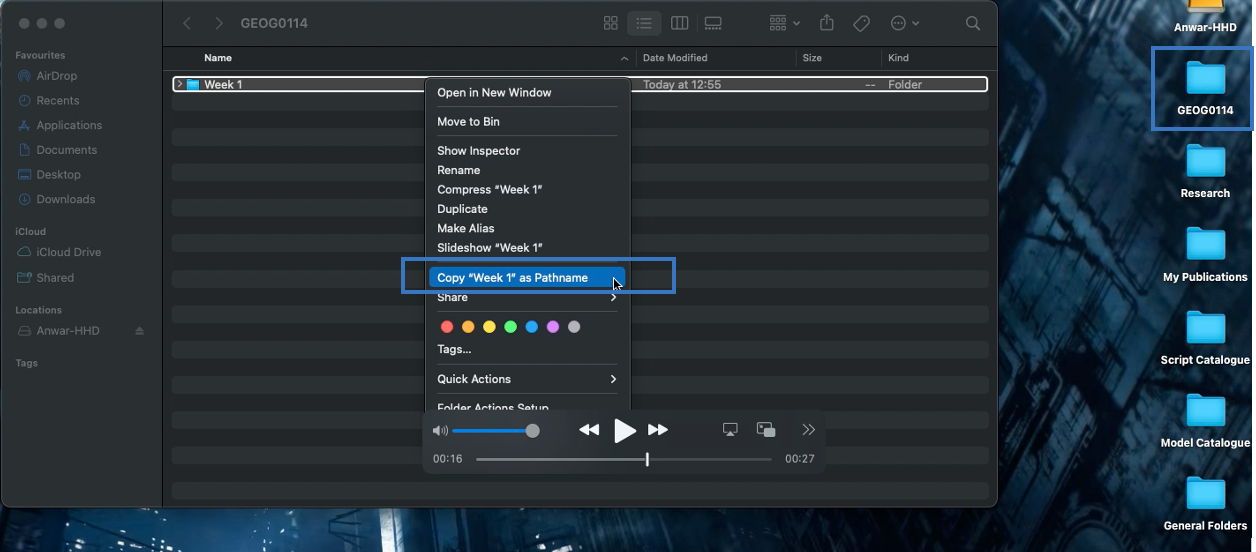
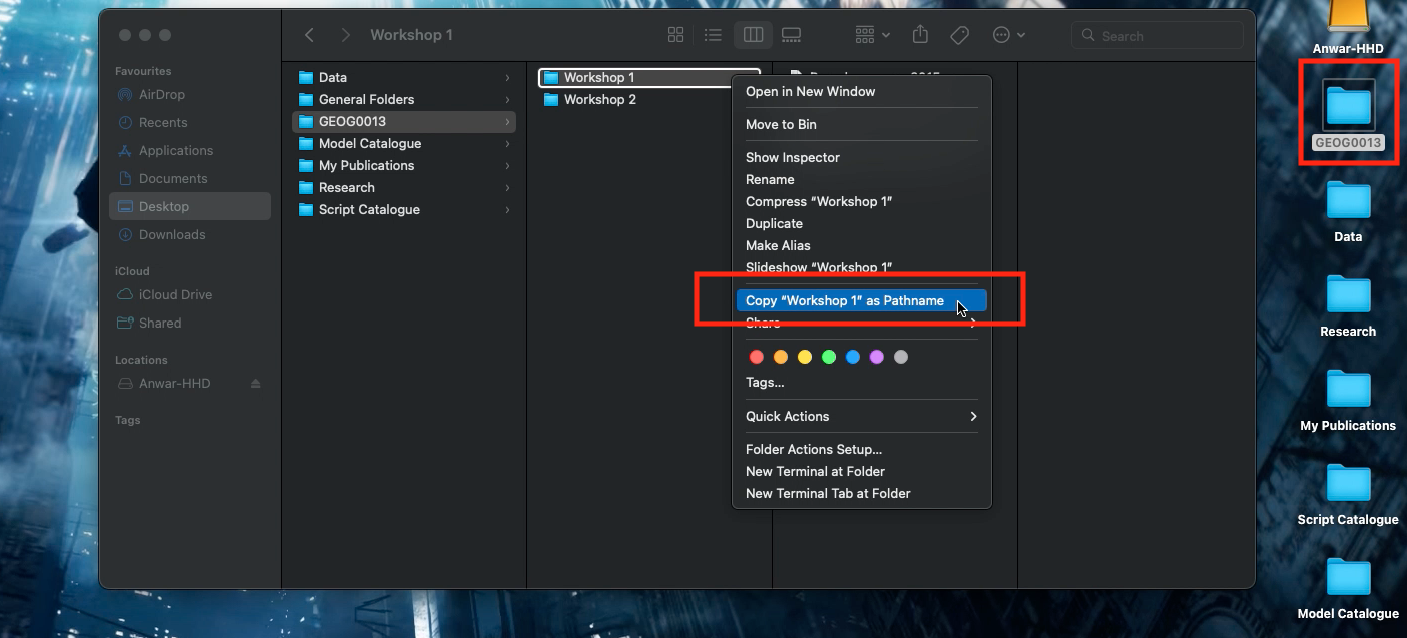
Uploading doc: Introduction to Statistics GIF1

diff --git a/docs/part-2-basics-of-managing-data-in-rstudio.html b/docs/part-2-basics-of-managing-data-in-rstudio.html
@@ -305,14 +305,14 @@ code span.wa { color: #60a0b0; font-weight: bold; font-style: italic; } /* Warni
 </div>
 <p>Now, this part of the practicals are probably the most important section of this tutorial. It’s usually the <strong>“make”</strong> or <strong>“break”</strong> phase (i.e., you ending up loving RStudio OR you hating it and not ever wanting to pick up R again).</p>
 <p>We are going to learn how to set-up a working directory. This basically refers to us connecting the RStudio to the folder containing our dataset. It allows the user to tell RStudio to open data from a folder once it knows the <strong>path location</strong>. The path location specifies the whereabouts of the data file(s) stored within a computer. Setting your directory in RStudio beforehand makes life incredibly easier in terms of finding, importing, exporting and saving data in and out of RStudio.</p>
-<p>To illustrate what a path location is – suppose on my desktop (mac/widows) there is a folder called <strong>“GEOG0013”</strong>, and within that folder, exists another folder called <strong>“Workshop 1”</strong>. Finally, suppose a comma separated value (.csv) data file called <strong>“XXX.csv”</strong> is store in this last folder i.e., <strong>Workshop 1</strong>. If via RStudio you want to open this CSV data file located in within the <strong>“Workshop 1”</strong> folder. You will need to first set the path to <strong>“Workshop 1”</strong> in RStudio using the <code>setwd()</code> function.</p>
+<p>To illustrate what a path location is – suppose on my desktop (mac/widows) there is a folder called <strong>“GEOG0013”</strong>, and within that folder, exists another folder called <strong>“Workshop 1”</strong>. Finally, suppose a comma separated value (.csv) data file called <strong>“Barcelona_rents_2015.csv”</strong> is store in this last folder i.e., <strong>Workshop 1</strong>. If via RStudio you want to open this CSV data file located in within the <strong>“Workshop 1”</strong> folder. You will need to first set the path to <strong>“Workshop 1”</strong> in RStudio using the <code>setwd()</code> function.</p>
 <p>Therefore, the path location to this folder on a <strong>Windows</strong> machine would be written as follows, <code>"C:/Users/accountName/Desktop/GEOG0013/Workshop 1"</code>. You can access this piece of information simply by:</p>
 <ol style="list-style-type: decimal">
 <li>Open the <strong>GEOG0013</strong> folder to reveal the <strong>Workshop 1</strong> folder.</li>
 <li>Open the <strong>Workshop 1</strong> folder in the data files are stored.</li>
 <li>Now, click on the bar at the top which shows <code>GEOG0013 &gt; Workshop 1</code>. This should highlight and show <code>"C:\Users\accountName\Desktop\GEOG0013\Workshop 1"</code> (see image below):</li>
 </ol>
-<p><img src="images/general/getting_started/image3_path_window.png" width="100%" style="display: block; margin: auto;" /></p>
+<p><img src="images/general/getting_started/image3_path_windows.PNG" width="100%" style="display: block; margin: auto;" /></p>
 <ol start="4" style="list-style-type: decimal">
 <li>Now, copy <code>"C:\Users\accountName\Desktop\GEOG0013\Workshop 1"</code> and paste the path name into the <code>setwd()</code> function in your R script.</li>
 <li>Lastly, change all the back slashes <code>\</code> in the path name to forward slashes <code>/</code> and run the code. It should look like this: <code>setwd("C:/Users/accountName/Desktop/GEOG0013/Workshop 1")</code>.</li>
@@ -339,48 +339,47 @@ code span.wa { color: #60a0b0; font-weight: bold; font-style: italic; } /* Warni
 <h2>Importing data using <code>read.csv()</code><a href="part-2-basics-of-managing-data-in-rstudio.html#importing-data-using-read.csv" class="anchor-section" aria-label="Anchor link to header"></a></h2>
 <p>As you will be working mostly with comma separated value formatted data (i.e., csv) we will therefore learn how to import and export in RStudio. There are two files that we are going to import into RStudio from Week 1’s folder:</p>
 <ol style="list-style-type: decimal">
-<li><code>XXX.csv</code> which contains information on seven indicators (as scores) and an IMD ranking for socioeconomic deprivation for 4,836 postcodes across London in 2019.</li>
-<li><code>YYY.csv</code> which contains details about the observed and estimated expected number of fire-related accidents to have occurred in residential premises with the overall number of houses in 4,836 postcodes across London in 2019.</li>
+<li><code>Barcelona_cars_2015.csv</code> which contains an indicator for proportion of car ownership in 73 Spanish neighbourhoods in Barcelona in 2015.</li>
+<li><code>Barcelona_rents_2015.csv</code> which contains an indicator for average monthly rent (in euros) spent in 73 Spanish neighbourhoods in Barcelona in 2015.</li>
 </ol>
-<p>To import a csv into RStudio, we use the <code>read.csv()</code> function. To demonstrate this, let us import the data for fires into an data frame object and name it as <code>X_OBJECT</code></p>
+<p>To import a csv into RStudio, we use the <code>read.csv()</code> function. To demonstrate this, let us import the data for fires into an data frame object and name it as <code>Barcelona_rents_2015.csv</code></p>
 <div class="sourceCode" id="cb14"><pre class="sourceCode r"><code class="sourceCode r"><span id="cb14-1"><a href="part-2-basics-of-managing-data-in-rstudio.html#cb14-1" aria-hidden="true" tabindex="-1"></a><span class="co"># Import data using read.csv() function </span></span>
-<span id="cb14-2"><a href="part-2-basics-of-managing-data-in-rstudio.html#cb14-2" aria-hidden="true" tabindex="-1"></a>Fire_data <span class="ot">&lt;-</span> <span class="fu">read.csv</span>(<span class="at">file=</span><span class="st">&quot;XXX.csv&quot;</span>, <span class="at">header =</span> <span class="cn">TRUE</span>, <span class="at">sep =</span> <span class="st">&quot;,&quot;</span>)</span></code></pre></div>
+<span id="cb14-2"><a href="part-2-basics-of-managing-data-in-rstudio.html#cb14-2" aria-hidden="true" tabindex="-1"></a>Rent_data <span class="ot">&lt;-</span> <span class="fu">read.csv</span>(<span class="at">file=</span><span class="st">&quot;Barcelona_rents_2015.csv&quot;</span>, <span class="at">header =</span> <span class="cn">TRUE</span>, <span class="at">sep =</span> <span class="st">&quot;,&quot;</span>)</span></code></pre></div>
 <p>Just in case…suppose if we did <strong>NOT</strong> set the working directory earlier. We would have to go through the hassle of typing the path location in the <code>read.csv()</code>.</p>
 <p>For windows:</p>
-<div class="sourceCode" id="cb15"><pre class="sourceCode r"><code class="sourceCode r"><span id="cb15-1"><a href="part-2-basics-of-managing-data-in-rstudio.html#cb15-1" aria-hidden="true" tabindex="-1"></a>X_OBJECT <span class="ot">&lt;-</span> <span class="fu">read.csv</span>(<span class="at">file=</span><span class="st">&quot;C:/Users/accountName/Desktop/GEOG0013/Workshop 1/XXX.csv&quot;</span>, <span class="at">header =</span> <span class="cn">TRUE</span>, <span class="at">sep =</span> <span class="st">&quot;,&quot;</span>)</span></code></pre></div>
+<div class="sourceCode" id="cb15"><pre class="sourceCode r"><code class="sourceCode r"><span id="cb15-1"><a href="part-2-basics-of-managing-data-in-rstudio.html#cb15-1" aria-hidden="true" tabindex="-1"></a>Rent_data <span class="ot">&lt;-</span> <span class="fu">read.csv</span>(<span class="at">file=</span><span class="st">&quot;C:/Users/accountName/Desktop/GEOG0013/Workshop 1/Barcelona_rent_2015.csv&quot;</span>, <span class="at">header =</span> <span class="cn">TRUE</span>, <span class="at">sep =</span> <span class="st">&quot;,&quot;</span>)</span></code></pre></div>
 <p>For Mac:</p>
-<div class="sourceCode" id="cb16"><pre class="sourceCode r"><code class="sourceCode r"><span id="cb16-1"><a href="part-2-basics-of-managing-data-in-rstudio.html#cb16-1" aria-hidden="true" tabindex="-1"></a>X_OBJECT <span class="ot">&lt;-</span> <span class="fu">read.csv</span>(<span class="at">file=</span><span class="st">&quot;/Users/accountName/Desktop/GEOG0013/Workshop 1/XXX.csv&quot;</span>, <span class="at">header =</span> <span class="cn">TRUE</span>, <span class="at">sep =</span> <span class="st">&quot;,&quot;</span>)</span></code></pre></div>
+<div class="sourceCode" id="cb16"><pre class="sourceCode r"><code class="sourceCode r"><span id="cb16-1"><a href="part-2-basics-of-managing-data-in-rstudio.html#cb16-1" aria-hidden="true" tabindex="-1"></a>Rent_data <span class="ot">&lt;-</span> <span class="fu">read.csv</span>(<span class="at">file=</span><span class="st">&quot;/Users/accountName/Desktop/GEOG0013/Workshop 1/Barcelona_rent_2015.csv&quot;</span>, <span class="at">header =</span> <span class="cn">TRUE</span>, <span class="at">sep =</span> <span class="st">&quot;,&quot;</span>)</span></code></pre></div>
 <p>I do not recommend doing it this way. Just set the work directory with <code>setwd()</code> to make life easier for yourself.</p>
 <div class="note">
 <p><strong>Important Notes:</strong> The arguments used in <code>read.csv()</code> function – 1.) ‘<code>file =</code>’ is a mandatory option where you quote the name of the file to be imported; 2.) ‘<code>header = TRUE</code>’ option is set to <code>TRUE</code> which is telling RStudio that the file that is about to be imported has column names on the first row so it should not treat as observations; and 3.) ‘<code>sep = ","</code>’ we are telling RStudio that the format of the dataset is comma separated.</p>
 </div>
-<p>We have imported the XXX data. Now, let us import the second data for YYY using the <code>read.csv()</code> function and call it <code>Y_OBJECT</code>. The code would look something as follows:</p>
+<p>We have imported the <code>Barcelona_rents_2015.csv</code> data. Now, let us import the second data for YYY using the <code>read.csv()</code> function and call it <code>Barcelona_cars_2015.csv</code>. The code would look something as follows:</p>
 <div class="sourceCode" id="cb17"><pre class="sourceCode r"><code class="sourceCode r"><span id="cb17-1"><a href="part-2-basics-of-managing-data-in-rstudio.html#cb17-1" aria-hidden="true" tabindex="-1"></a><span class="co"># Import data using read.csv() function </span></span>
-<span id="cb17-2"><a href="part-2-basics-of-managing-data-in-rstudio.html#cb17-2" aria-hidden="true" tabindex="-1"></a>Y_OBJECT <span class="ot">&lt;-</span> <span class="fu">read.csv</span>(<span class="at">file=</span><span class="st">&quot;YYY.csv&quot;</span>, <span class="at">header =</span> <span class="cn">TRUE</span>, <span class="at">sep =</span> <span class="st">&quot;,&quot;</span>)</span>
+<span id="cb17-2"><a href="part-2-basics-of-managing-data-in-rstudio.html#cb17-2" aria-hidden="true" tabindex="-1"></a>Cars_data <span class="ot">&lt;-</span> <span class="fu">read.csv</span>(<span class="at">file=</span><span class="st">&quot;Barcelona_cars_2015.csv&quot;</span>, <span class="at">header =</span> <span class="cn">TRUE</span>, <span class="at">sep =</span> <span class="st">&quot;,&quot;</span>)</span>
 <span id="cb17-3"><a href="part-2-basics-of-managing-data-in-rstudio.html#cb17-3" aria-hidden="true" tabindex="-1"></a></span>
 <span id="cb17-4"><a href="part-2-basics-of-managing-data-in-rstudio.html#cb17-4" aria-hidden="true" tabindex="-1"></a><span class="co"># Show viewer the data sets</span></span>
-<span id="cb17-5"><a href="part-2-basics-of-managing-data-in-rstudio.html#cb17-5" aria-hidden="true" tabindex="-1"></a><span class="fu">View</span>(Y_OBJECT)</span>
-<span id="cb17-6"><a href="part-2-basics-of-managing-data-in-rstudio.html#cb17-6" aria-hidden="true" tabindex="-1"></a><span class="fu">View</span>(X_OBJECT)</span></code></pre></div>
+<span id="cb17-5"><a href="part-2-basics-of-managing-data-in-rstudio.html#cb17-5" aria-hidden="true" tabindex="-1"></a><span class="fu">View</span>(Rent_data)</span>
+<span id="cb17-6"><a href="part-2-basics-of-managing-data-in-rstudio.html#cb17-6" aria-hidden="true" tabindex="-1"></a><span class="fu">View</span>(Cars_data)</span></code></pre></div>
 </div>
 <div id="joining-two-datasets-using-the-merge-function" class="section level2 unnumbered hasAnchor">
 <h2>Joining two datasets using the <code>merge()</code> function<a href="part-2-basics-of-managing-data-in-rstudio.html#joining-two-datasets-using-the-merge-function" class="anchor-section" aria-label="Anchor link to header"></a></h2>
-<p>In your journey with data sets, you will certainly find yourself merging two or more data frames together, especially bringing together a spatial object with a non-spatial object. We cannot stress the importance of merging objects in the correct order so that the spatial attributes are preserved.</p>
-<p>In this instance, we are just dealing with two ordinary dataset which are non-spatial - i.e., one data set contains information on Fires that occurred in geographic units in London know as Lower Super Output Areas (LSOA), while the other contains its corresponding information for socioeconomic indicators that describe the LSOA. Hence, it is possible to merge the two data frames uniquely using a common key variable like <code>Key_variable</code>.</p>
+<p>In your journey with data sets, you will certainly find yourself merging two or more data frames together, especially bringing together a spatial object with a non-spatial object. We cannot stress the importance of merging objects in the correct order so that the spatial attributes are preserved. It is possible to merge the two data frames uniquely using a common key variable like <code>neighbourhoods</code> that is present in both data sets.</p>
 <p><img src="images/general/getting_started/image5_dataviewer.png" width="100%" style="display: block; margin: auto;" /></p>
 <p>This task can be done using the merge function <code>merge()</code>. Consequently, we want the format of the merge code to look something akin to this syntax <code>merge(target_object, selected_object, by=”Key_variable”)</code>.</p>
-<p>Merging data frames is indeed a very important technique to know especially if you need to bring together event information with no spatial dimension with actual spatial data. Alright, let’s merge the deprivation data on the fire records using the <code>Key_variable</code> column, and generate a bigger data frame that contains both the fire and socioeconomic information:</p>
+<p>Merging data frames is indeed a very important technique to know especially if you need to bring together event information with no spatial dimension with actual spatial data. Alright, let’s merge the rental information on the fire records using the <code>Key_variable</code> column, and generate a bigger data frame that contains both the fire and socioeconomic information:</p>
 <div class="sourceCode" id="cb18"><pre class="sourceCode r"><code class="sourceCode r"><span id="cb18-1"><a href="part-2-basics-of-managing-data-in-rstudio.html#cb18-1" aria-hidden="true" tabindex="-1"></a><span class="co"># Using the merge() function </span></span>
-<span id="cb18-2"><a href="part-2-basics-of-managing-data-in-rstudio.html#cb18-2" aria-hidden="true" tabindex="-1"></a>Barcelona_data <span class="ot">&lt;-</span> <span class="fu">merge</span>(X_OBJECT, Y_OBJECT, <span class="at">by.x =</span> “Key_variable”, <span class="at">by.y =</span> “Key_variable”, <span class="at">all.x =</span> <span class="cn">TRUE</span>)</span>
+<span id="cb18-2"><a href="part-2-basics-of-managing-data-in-rstudio.html#cb18-2" aria-hidden="true" tabindex="-1"></a>Barcelona_data <span class="ot">&lt;-</span> <span class="fu">merge</span>(Rent_data, Cars_data, <span class="at">by.x =</span> <span class="st">&quot;neighbourhood&quot;</span>, <span class="at">by.y =</span> <span class="st">&quot;neighbourhood&quot;</span>, <span class="at">all.x =</span> <span class="cn">TRUE</span>)</span>
 <span id="cb18-3"><a href="part-2-basics-of-managing-data-in-rstudio.html#cb18-3" aria-hidden="true" tabindex="-1"></a></span>
 <span id="cb18-4"><a href="part-2-basics-of-managing-data-in-rstudio.html#cb18-4" aria-hidden="true" tabindex="-1"></a><span class="co"># View the datasets</span></span>
 <span id="cb18-5"><a href="part-2-basics-of-managing-data-in-rstudio.html#cb18-5" aria-hidden="true" tabindex="-1"></a><span class="fu">View</span>(Barcelona_data)</span></code></pre></div>
 <div class="note">
 <p><strong>Important Notes:</strong> The arguments used in <code>merge.csv()</code>:</p>
 <ol style="list-style-type: decimal">
-<li><code>X_OBJECT</code> is the target data frame we want something to be merged on to.</li>
-<li><code>Y_OBJECT</code> is the selected data frame we are using to merge with the <code>X_OBJECT</code>.</li>
-<li><code>by.x = “Key_variable”</code> option we are specifying the name of the join column from the target data frame i.e., <code>X_OBJECT</code>.</li>
-<li><code>by.y = “Key_variable”</code> option we are specifying the name of the join column from the selected data frame i.e., <code>Y_OBJECT</code></li>
+<li><code>Rent_data</code> is the target data frame we want something to be merged on to.</li>
+<li><code>Cars_data</code> is the selected data frame we are using to merge with the <code>Rent_data</code>.</li>
+<li><code>by.x = “neighbourhood”</code> option we are specifying the name of the join column from the target data frame i.e., <code>Rent_data</code>.</li>
+<li><code>by.y = “neighbourhood”</code> option we are specifying the name of the join column from the selected data frame i.e., <code>Cars_data</code></li>
 <li><code>all.x=TRUE</code> option we are telling RStudio to retain all rows that are originally from the target data after merging regardless of whether or not they are present in the selected data frame. So even if a row from the selected data does not find a unique link with any of the rows in target data to match too - it will still preserve the target data frame by not discarding unlinked rows. But it will discard the unmatched rows from the selected data frame.</li>
 </ol>
 </div>
@@ -395,7 +394,7 @@ code span.wa { color: #60a0b0; font-weight: bold; font-style: italic; } /* Warni
 <ol style="list-style-type: decimal">
 <li><code>Barcelona_Data</code> is an object we are exporting. It is compulsory to specify the object data frame we want to export</li>
 <li><code>file =</code> is a mandatory argument. We must give a name to the file we wish to export it as with <code>.csv</code> extension.</li>
-<li><code>row.names =</code> this is an annoying argument! It will automatically index the dataset with unique row numbers by default if we do not specify <code>FALSE</code>! Since the data has its own unique identifiers (i.e., LSOA_code) we specify ‘FALSE’ to not perform this action of indexing</li>
+<li><code>row.names =</code> this is an annoying argument! It will automatically index the dataset with unique row numbers by default if we do not specify <code>FALSE</code>! Since the data has its own unique identifiers (i.e., neighbourhoods) we specify ‘FALSE’ to not perform this action of indexing</li>
 </ol>
 </div>
 <p>Again, suppose if you did <strong>NOT</strong> set the work directory to your folder, you will have to type the whole path location to where you want the data to be exported which could be a hassle:</p>

diff --git a/docs/index.html b/docs/index.html
@@ -199,7 +199,7 @@ code span.wa { color: #60a0b0; font-weight: bold; font-style: italic; } /* Warni
 <div id="welcome-to-introduction-to-statistics" class="section level1 unnumbered hasAnchor">
 <h1>Welcome to Introduction to Statistics<a href="index.html#welcome-to-introduction-to-statistics" class="anchor-section" aria-label="Anchor link to header"></a></h1>
 <p><img src="images/general/Welcome_page_image.png" width="100%" style="display: block; margin: auto;" /></p>
-<p>Welcome to <strong>GIF1’s</strong> <strong>Introduction to Statistics</strong>. This module has been designed as an introduction to the core tenets and principles of geography taught through many different themes touching on <strong>physical sciences</strong> (e.g., coastal and rivers), <strong>social sciences</strong> (e.g., ethnographic methods and urbanism) and <strong>statistics</strong> (e.g., data analysis and GIS). This session focuses on the themes of <strong>statistics</strong> (i.e., data analysis). In week 4, we provide you with an introduction to basic statistical methods for exploring &amp; representing geographic secondary data from Barcelona, using a programming software tool known as <strong>R/RStudio</strong>.</p>
+<p>Welcome to <strong>GIF1’s</strong> <strong>Introduction to Statistics</strong>. So far you have been introduction to the core tenets and principles of geography taught through the different themes touching on physical sciences (e.g., coastal and rivers) and social sciences (e.g., ethnographic methods and urbanism). This session focuses on the themes of <strong>statistics</strong> (i.e., data analysis). Here, we will provide you with an introduction to the basic statistical methods for exploring &amp; representing secondary data from Barcelona, using a programming software tool known as <strong>R/RStudio</strong>.</p>
 <div id="structure" class="section level2 unnumbered hasAnchor">
 <h2>Structure<a href="index.html#structure" class="anchor-section" aria-label="Anchor link to header"></a></h2>
 <p>The structure of this GIF1 component is a 3-hour group computer practical workshop that will be delivered in-person. All students have been allocated to one of 8 groups (i.e., group <strong>A</strong>, <strong>B</strong>, <strong>C</strong>, <strong>D</strong>, <strong>E</strong>, <strong>F</strong>, <strong>G</strong>, <strong>H</strong> or <strong>I</strong>). The workshop for week 4’s <strong>Introduction to Statistics</strong> will take place on the following dates:</p>

diff --git a/docs/part-1-getting-started-with-rstudio.html b/docs/part-1-getting-started-with-rstudio.html
@@ -345,7 +345,7 @@ code span.wa { color: #60a0b0; font-weight: bold; font-style: italic; } /* Warni
 <p>We are now familiar with using the console and assigning values (i.e., numeric and string values) to objects. The parts covered here are the initial steps and building blocks for coding and creating datasets in RStudio.</p>
 <p>Let us progress to the next section. We will learn the basics of managing data and some coding etiquette - this includes creating data frames, importing &amp; exporting spreadsheets, setting up work directories, column manipulations and merging two data frames. Learning these basic tasks are key for managing data in RStudio.</p>
 <div class="note">
-<p><strong>Important Notes</strong>: We will using scripts files for typing codes from this point onwards.</p>
+<p><strong>Important Notes</strong>: We will be using R-scripts file for typing codes from this point onwards.</p>
 </div>
 </div>
 </div>
